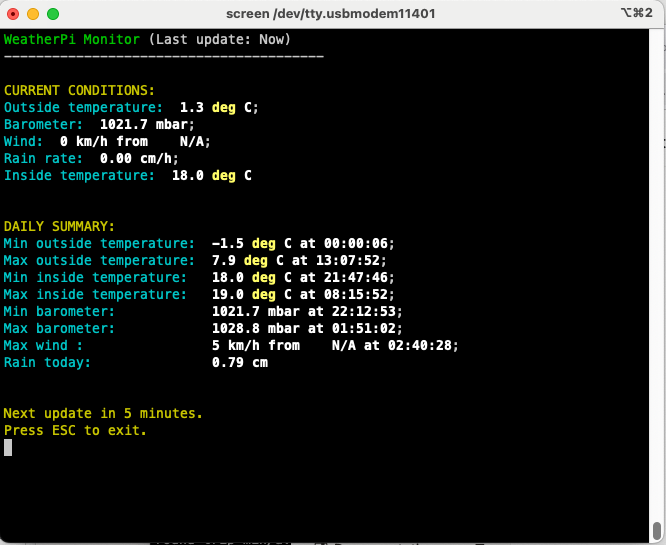
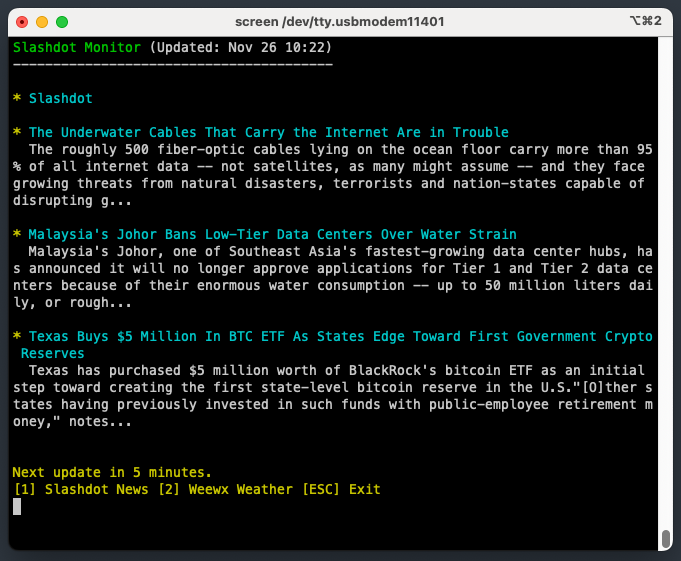
Add Slashdot News feed

Changed region(s): [[0.0, 0.0, 1.0, 1.0]]

diff --git a/src/main.c b/src/main.c
@@ -15,7 +15,7 @@ char *strstr(const char *haystack, const char *needle);
 #endif
 
 /* --- Configuration --- */
-#define BUFFER_SIZE 8192
+#define BUFFER_SIZE 16384
 #define UPDATE_INTERVAL_MIN 5
 #define TICKS_PER_MIN (60UL * CLOCKS_PER_SEC) 
 #define TIMEZONE_OFFSET -5      /* EST = -5, EDT = -4 */
@@ -23,7 +23,11 @@ char *strstr(const char *haystack, const char *needle);
 /* --- Keyboard / XRAM Configuration --- */
 #define KEYBOARD_INPUT  0xEC20  // XRAM address for keyboard data
 #define KEYBOARD_BYTES  32      // 32 bytes for 256 key states
-#define KEY_ESC 0x29   
+#define KEY_ESC         0x29   
+#define KEY_ENTER       0x28    
+#define KEY_1           0x1E    /* '1' on main row */
+#define KEY_2           0x1F    /* '2' on main row */
+
 // Macro to check if a key is pressed
 #define key(code) (keystates[code >> 3] & (1 << (code & 7)))
 
@@ -44,6 +48,7 @@ char *strstr(const char *haystack, const char *needle);
 #define ANSI_YELLOW     "\x1b[33m"
 #define ANSI_WHITE      "\x1b[37m"
 #define ANSI_MAGENTA    "\x1b[35m"
+#define ANSI_RED        "\x1b[31m"
 
 /* --- Globals --- */
 static char g_buffer[BUFFER_SIZE];
@@ -51,48 +56,88 @@ static char g_read_temp[256];
 static char g_temp_line[128];
 uint8_t keystates[KEYBOARD_BYTES] = {0};
 
+/* --- Helper Functions --- */
 static int is_entity(const char* p, const char* entity) {
     return strncmp(p, entity, strlen(entity)) == 0;
 }
 
-static void print_pretty_line(const char* start, const char* end) {
+/* Feed Configuration Structure */
+typedef struct {
+    int id;
+    const char* name;
+    const char* host;
+    const char* port_str; 
+    const char* path;
+    const char* tag;      /* Tag to search for (<title> vs <description>) */
+    const char* end_tag;  /* Closing tag */
+    int skip_first;       /* Skip the first found tag? (usually channel title) */
+} FeedConfig;
+
+/* Predefined Feeds */
+// FeedConfig feed_weather = { 0, "WeatherPi", "weatherpi.home.arpa", "80", "/weewx/rss.xml" };
+// // FeedConfig feed_cbc     = { 1, "CBC News",  "www.cbc.ca",          "80", "/webfeed/rss/rss-topstories" };
+// FeedConfig feed_news    = { 1, "Slashdot",  "rss.slashdot.org",    "80", "/Slashdot/slashdot" };
+FeedConfig feed_weather = { 0, "WeatherPi", "weatherpi.home.arpa", "80", "/weewx/rss.xml",       "<description>", "</description>", 0 };
+FeedConfig feed_news    = { 1, "Slashdot",  "rss.slashdot.org",    "80", "/Slashdot/slashdot",   "<title>",       "</title>",       1 };
+
+/* Current Selection (Default to Weather) */
+FeedConfig current_feed;
+
+static void print_pretty_line(const char* start, const char* end, int max_chars, const char* color) {
     const char* p = start;
     int is_value = 0;
-    
+    int in_tag = 0; 
+    int chars_printed = 0;
+
     /* Consume initial whitespace */
     while (p < end && (*p == ' ' || *p == '\t' || *p == '\n' || *p == '\r')) {
         p++;
     }
     if (p >= end) return;
 
-    printf(ANSI_CYAN);
+    /* Set the requested base color */
+    printf("%s", color);
 
     while (p < end) {
-        if (*p == '&') {
-            if (is_entity(p, "&#176;")) {
-                printf(ANSI_YELLOW " deg " ANSI_CYAN);
-                if (is_value) printf(ANSI_BOLD ANSI_WHITE);
-                p += 6; continue;
-            }
-            if (is_entity(p, "&quot;")) { putchar('"'); p += 6; continue; }
-            if (is_entity(p, "&amp;"))  { putchar('&'); p += 5; continue; }
-            if (is_entity(p, "&lt;"))   { putchar('<'); p += 4; continue; }
-            if (is_entity(p, "&gt;"))   { putchar('>'); p += 4; continue; }
+        if (max_chars > 0 && chars_printed >= max_chars) {
+            printf(ANSI_RESET "...");
+            break;
         }
 
+        /* Handle HTML Tags (Strip them) */
+        if (*p == '<') { in_tag = 1; p++; continue; }
+        if (*p == '>') { in_tag = 0; p++; continue; }
+        if (in_tag) { p++; continue; }
+
+        /* Handle HTML Entities */
+        if (*p == '&') {
+            if (is_entity(p, "&#176;")) {
+                /* Use passed 'color' to revert after highlighting degree symbol */
+                printf(ANSI_YELLOW " deg %s", color);
+                if (is_value) printf(ANSI_BOLD ANSI_WHITE);
+                p += 6; chars_printed++; continue;
+            }
+            if (is_entity(p, "&quot;")) { putchar('"'); p += 6; chars_printed++; continue; }
+            if (is_entity(p, "&amp;"))  { putchar('&'); p += 5; chars_printed++; continue; }
+            if (is_entity(p, "&lt;"))   { putchar('<'); p += 4; chars_printed++; continue; }
+            if (is_entity(p, "&gt;"))   { putchar('>'); p += 4; chars_printed++; continue; }
+        }
+
+        /* Logic for Key: Value coloring (Weather) */
         if (*p == ':' && !is_value) {
             printf(":%s ", ANSI_RESET);
             is_value = 1;
             printf(ANSI_BOLD ANSI_WHITE);
-            p++;
+            p++; chars_printed++;
             continue;
         }
 
+        /* Logic for semicolons (Newlines) */
         if (*p == ';') {
-            printf(ANSI_RESET ";\n" ANSI_CYAN); 
+            /* Reset, newline, then re-apply base color */
+            printf(ANSI_RESET ";\n%s", color); 
             is_value = 0;
-            p++;
-            /* Consume ALL whitespace after semicolon */
+            p++; chars_printed++;
             while (p < end && (*p == ' ' || *p == '\t' || *p == '\n' || *p == '\r')) {
                 p++;
             }
@@ -101,6 +146,7 @@ static void print_pretty_line(const char* start, const char* end) {
 
         if (*p != '\n' && *p != '\r') {
             putchar(*p);
+            chars_printed++;
         }
         p++;
     }
@@ -157,9 +203,16 @@ static int fetch_data(void) {
     int line_len;
     char ch;
     int block_count = 0;
+    int items_found = 0; 
+    int tag_len;
+    int end_tag_len;
+    
     time_t now;
     struct tm *t;
     char time_str[40];
+
+    tag_len = strlen(current_feed.tag);
+    end_tag_len = strlen(current_feed.end_tag);
 
     fd = open("AT:", O_RDWR);
     if (fd < 0) {
@@ -172,9 +225,14 @@ static int fetch_data(void) {
     modem_send(fd, "ATE0\r\n");
     modem_read_bulk(fd, g_buffer, 256, 200);
 
-    printf("Connecting...");
+    printf("Connecting to %s...", current_feed.host);
     
-    modem_send(fd, "ATDweatherpi.home.arpa:80\r\n");
+    strcpy(g_temp_line, "ATD");
+    strcat(g_temp_line, current_feed.host);
+    strcat(g_temp_line, ":");
+    strcat(g_temp_line, current_feed.port_str);
+    strcat(g_temp_line, "\r\n");
+    modem_send(fd, g_temp_line);
 
     start = clock();
     while ((clock() - start) < 5000) {
@@ -197,64 +255,105 @@ static int fetch_data(void) {
 
     printf("\rConnected. Downloading...         ");
     
-    modem_send(fd, "GET /weewx/rss.xml HTTP/1.1\r\n");
-    modem_send(fd, "Host: weatherpi.home.arpa\r\n");
+    strcpy(g_temp_line, "GET ");
+    strcat(g_temp_line, current_feed.path);
+    strcat(g_temp_line, " HTTP/1.1\r\n");
+    modem_send(fd, g_temp_line);
+
+    strcpy(g_temp_line, "Host: ");
+    strcat(g_temp_line, current_feed.host);
+    strcat(g_temp_line, "\r\n");
+    modem_send(fd, g_temp_line);
+    
     modem_send(fd, "Connection: close\r\n\r\n");
 
+    /* FAST DOWNLOAD */
     bytes_read = modem_read_bulk(fd, g_buffer, BUFFER_SIZE - 1, 3000);
     g_buffer[bytes_read] = '\0';
     close(fd);
 
-    /* --- CAPTURE & FORMAT TIME --- */
     now = time(NULL);
-    /* Adjust UTC to Local Time manually */
-    now += (TIMEZONE_OFFSET * 3600);
+    now += (TIMEZONE_OFFSET * 3600); 
     t = localtime(&now);
-    /* Format: "Nov 25 22:30" */
     strftime(time_str, sizeof(time_str), "%b %d %H:%M", t);
-    /* ----------------------------- */
 
     printf(ANSI_CLS);
-    // printf(ANSI_GREEN "WeatherPi Monitor" ANSI_RESET " (Last update: Now)\n");
-    printf(ANSI_GREEN "WeatherPi Monitor" ANSI_RESET " (Last update: %s)\n", time_str);
+    printf(ANSI_GREEN "%s Monitor" ANSI_RESET " (Updated: %s)\n", current_feed.name, time_str);
     printf("----------------------------------------\n\n");
 
     pos = 0;
     while (pos < bytes_read) {
-        tag_start = strstr(g_buffer + pos, "<description>");
+        tag_start = strstr(g_buffer + pos, current_feed.tag);
         if (!tag_start) break;
-        tag_start += 13;
-        tag_end = strstr(tag_start, "</description>");
+        
+        tag_start += tag_len; 
+        tag_end = strstr(tag_start, current_feed.end_tag);
         if (!tag_end) break;
         
-        *tag_end = '\0'; /* Terminate string temporarily for processing */
+        *tag_end = '\0'; 
         
-        /* --- FILTERING LOGIC --- */
-        
-        /* 1. Skip Channel Title (usually contains "summaries") */
-        if (strstr(tag_start, "summaries") != NULL) {
-            pos = (int)(tag_end - g_buffer) + 14;
+        if (current_feed.skip_first && items_found == 0) {
+            pos = (int)(tag_end - g_buffer) + end_tag_len;
+            items_found++; 
             continue;
         }
-        
-        /* 2. Skip Monthly and Yearly summaries */
-        if (strstr(tag_start, "total for month") != NULL || 
-            strstr(tag_start, "total for year") != NULL) {
-            pos = (int)(tag_end - g_buffer) + 14;
-            continue;
+
+        /* Weather Filtering */
+        if (current_feed.id == 0) {
+            if (strstr(tag_start, "summaries") != NULL ||
+                strstr(tag_start, "total for month") != NULL || 
+                strstr(tag_start, "total for year") != NULL) {
+                pos = (int)(tag_end - g_buffer) + end_tag_len;
+                continue;
+            }
+            if (block_count == 0) printf(ANSI_YELLOW "CURRENT CONDITIONS:\n" ANSI_RESET);
+            else if (block_count == 1) printf(ANSI_YELLOW "\nDAILY SUMMARY:\n" ANSI_RESET);
+            
+            /* Weather: Cyan by default */
+            print_pretty_line(tag_start, tag_end, 2000, ANSI_CYAN); 
+        } 
+        else {
+            /* News Filtering */
+            
+            /* Title: Yellow */
+            printf(ANSI_YELLOW "* ");
+            print_pretty_line(tag_start, tag_end, 2000, ANSI_CYAN);
+
+            /* Description: Cyan */
+            {
+                char *desc_start = strstr(tag_end + 1, "<description>");
+                if (desc_start && (desc_start - tag_end < 500)) {
+                    char *desc_end = strstr(desc_start, "</description>");
+                    if (desc_end) {
+                        *desc_end = '\0';
+                        printf("  "); 
+                        /* Pass ANSI_CYAN for the description body */
+                        print_pretty_line(desc_start + 13, desc_end, 250, ANSI_WHITE); 
+                        *desc_end = '<'; 
+                    }
+                }
+            }
         }
         
-        /* --- PRINTING --- */
-        
-        /* Optional: Add headers based on order found */
-        if (block_count == 0) printf(ANSI_YELLOW "CURRENT CONDITIONS:\n" ANSI_RESET);
-        else if (block_count == 1) printf(ANSI_YELLOW "\nDAILY SUMMARY:\n" ANSI_RESET);
-        
-        print_pretty_line(tag_start, tag_end);
         printf("\n");
-        block_count++;
         
-        pos = (int)(tag_end - g_buffer) + 14;
+        block_count++;
+        items_found++;
+        
+        pos = (int)(tag_end - g_buffer) + end_tag_len;
+    }
+
+    if (items_found == 0) {
+        printf(ANSI_RED "No RSS items found.\n");
+        printf("Possible HTTPS redirect or format error.\n\n" ANSI_RESET);
+        printf(ANSI_WHITE "Server Response (First 150 chars):\n" ANSI_RESET);
+        for(pos = 0; pos < 150 && pos < bytes_read; pos++) {
+            char c = g_buffer[pos];
+            if(c >= 32 && c <= 126) putchar(c);
+            else if (c == '\n') putchar('\n');
+            else putchar('.');
+        }
+        printf("\n");
     }
 
     return 1;
@@ -263,22 +362,27 @@ static int fetch_data(void) {
 void main(void) {
     unsigned long timer_start;
     unsigned long next_update_ticks = UPDATE_INTERVAL_MIN * TICKS_PER_MIN;
-    uint8_t j;
+    int running = 1;
+    int force_reload = 0;
+
+    /* Initialize: Default to Weather */
+    current_feed = feed_news;
 
     // Enable keyboard input
     xregn(0, 0, 0, 1, KEYBOARD_INPUT);
 
     printf(ANSI_CLS);
-    printf("Initializing Weather Monitor...\n\n");
+    printf("Initializing Monitor...\n\n");
 
-    j = 1;
-    while(j == 1) {
+    while (running) {
         fetch_data();
 
         printf(ANSI_YELLOW "\nNext update in %d minutes.\n", UPDATE_INTERVAL_MIN);
-        printf("Press ESC to exit.\n" ANSI_RESET);
+        printf("[1] Slashdot News [2] Weewx Weather [ESC] Exit\n" ANSI_RESET);
 
         timer_start = clock();
+        force_reload = 0;
+
         while ((clock() - timer_start) < next_update_ticks) {
             // Read all keyboard state bytes
             uint8_t i;
@@ -291,9 +395,29 @@ void main(void) {
             // Check for ESC key to exit
             if (key(KEY_ESC)) {
                 printf("Exiting ...\n");
-                j = 0;
+                running = 0;
                 break;
             }
+
+            /* Feed Selection Logic */
+            if (key(KEY_1)) {
+                if (current_feed.id != 1) {
+                    current_feed = feed_news;
+                    printf("\nSwitching to News...\n");
+                    force_reload = 1;
+                }
+            }
+            if (key(KEY_2)) {
+                if (current_feed.id != 0) {
+                    current_feed = feed_weather;
+                    printf("\nSwitching to Weather...\n");
+                    force_reload = 1;
+                }
+            }
+            
+            if (force_reload) break;
+
+
         }
     }
 }
